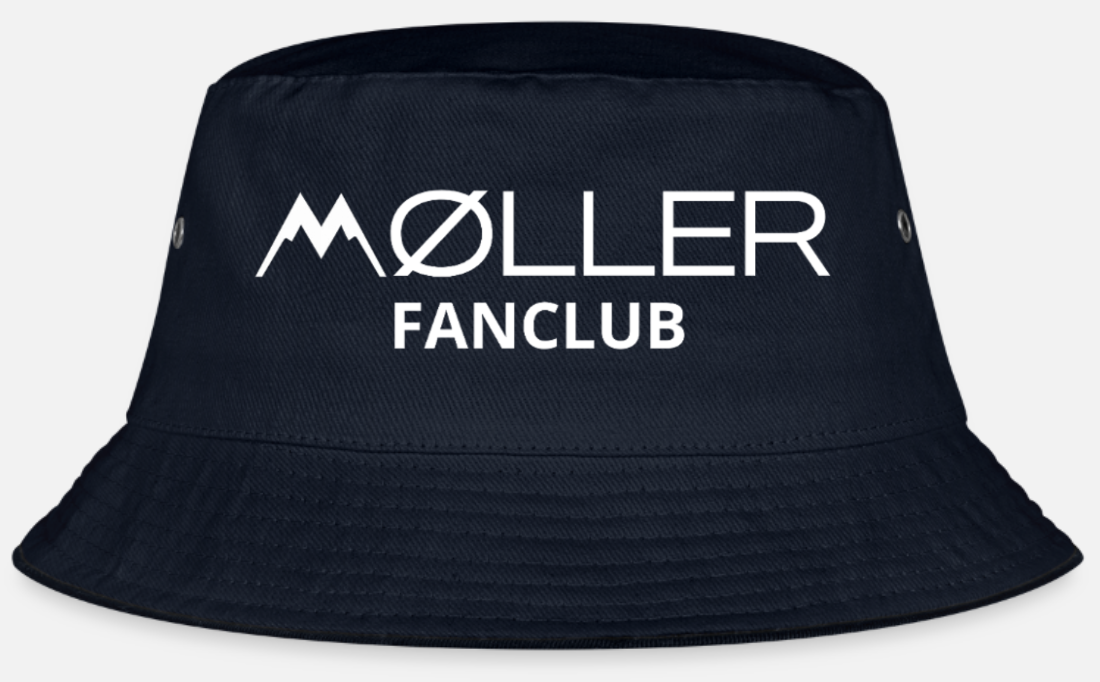
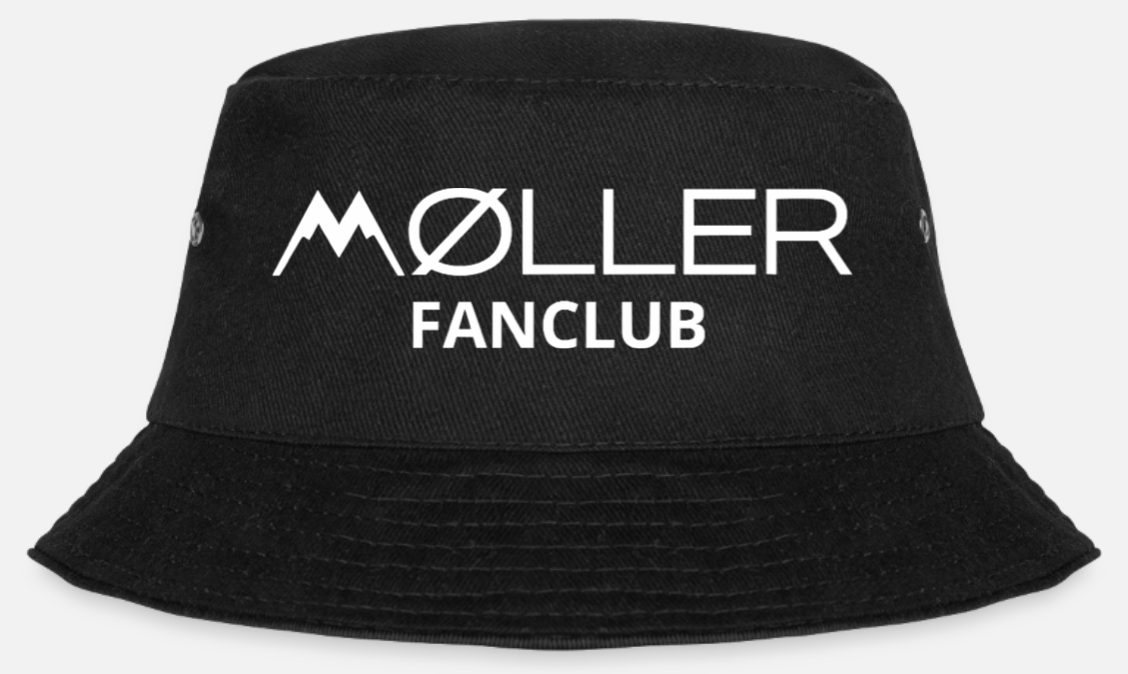
updated botte

diff --git a/backend/src/data/products.ts b/backend/src/data/products.ts
@@ -66,14 +66,22 @@ export const products: Product[] = [
     },
     {
         id: '9',
-        imageUrls: ['/merch/the_botte/the_botte.png'],
+        imageUrls: ['/merch/the_botte/the_botte.png', '/merch/the_botte/the_botte_back.png'],
         title: 'The Bøtte',
-        price: '299',
+        price: '349',
         sizes: ['S/M', 'L/XL'],
-        description: '4 metallmaljer gir god luftsirkulasjon\n Klassiske dekosømmer på bremmen\n Fôret sateng-svettebånd\n Materiale: 100 % bomull\n Håndvask anbefales',
+        description: 'Brodert logo\n 4 metallmaljer gir god luftsirkulasjon\n Klassiske dekosømmer på bremmen\n Fôret sateng-svettebånd\n Materiale: 100 % bomull\n Håndvask anbefales',
     },
     {
         id: '10',
+        imageUrls: ['/merch/the_botte/the_botte_marine.png', '/merch/the_botte/the_botte_marine_back.png'],
+        title: 'The Bøtte Marine',
+        price: '349',
+        sizes: ['S/M', 'L/XL'],
+        description: 'Brodert logo\n 4 metallmaljer gir god luftsirkulasjon\n Klassiske dekosømmer på bremmen\n Fôret sateng-svettebånd\n Materiale: 100 % bomull\n Håndvask anbefales',
+    },
+    {
+        id: '11',
         imageUrls: ['/merch/moller_pin/moller_pin.png'],
         title: '5x Møller Pin',
         price: '299',
@@ -81,7 +89,7 @@ export const products: Product[] = [
         description: '5-pakning\n Nål for festing på baksiden\n Diameter: 32 mm\n Materiale: Metall, kunststoff',
     },
     {
-        id: '11',
+        id: '12',
         imageUrls: ['/merch/cap/cap.png'],
         title: 'Møller Cap',
         price: '299',
